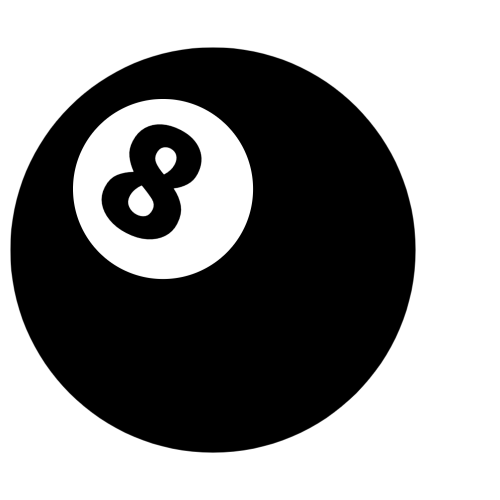
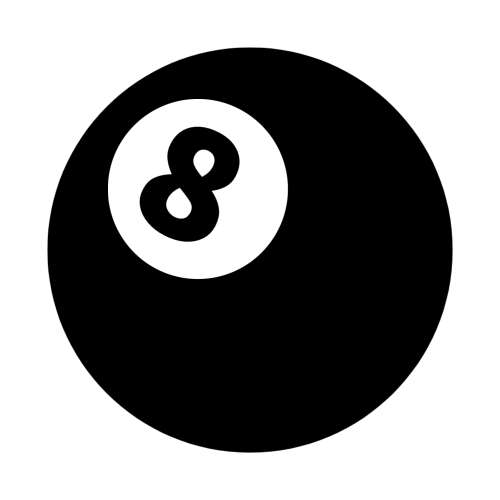
add ball front image at start

Changed region(s): [[0.0, 0.09, 0.93, 0.93]]

diff --git a/src/Component/Shake.js b/src/Component/Shake.js
@@ -48,8 +48,8 @@ class ShakeBall extends Component {
         <section id= 'button-box'>
         <Button variant="contained" size ="large" color="primary" id='button' onClick={this.shake} disabled={this.state.shaking}>{this.state.shaking? `${this.state.thinking}` : 'shake me'}</Button>
         </section>
-        <div className= 'answer' id = {this.state.shaking? 'wiggle' : ''}>
-          <p className='text'id = {this.state.shaking? 'fade' : ''}>
+        <div className= {this.state.face === ' '? 'hide' : 'answer'} id = {this.state.shaking? 'wiggle' : ''}>
+          <p className= {this.state.face === ' '? 'hide' : 'text'} id = {this.state.shaking? 'fade' : ''}>
             {this.state.face}
           </p>
         </div>

diff --git a/src/Component/Ball.css b/src/Component/Ball.css
@@ -9,6 +9,18 @@
   text-align: center;
 }
 
+.hide {
+  background-image: url('../../public/ball-front.png');
+  height: 600px;
+  width:600px;
+  background-size: cover;
+  background-repeat: no-repeat;
+  display: flex;
+  flex-direction: column;
+  justify-content: center;
+  align-items: center;
+}
+
 .answer {
   background-image: url('../../public/ball-face.png');
   height: 600px;
@@ -90,7 +102,7 @@
   }
 }
 @media screen and (max-width: 600px){
-  .answer {
+  .answer, .hide {
     height: 350px;
     width: 350px;
   }
